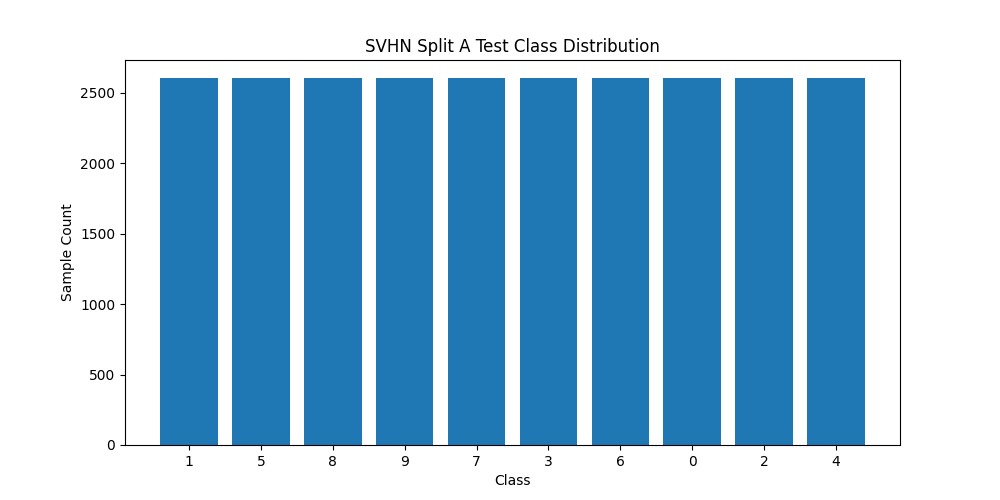
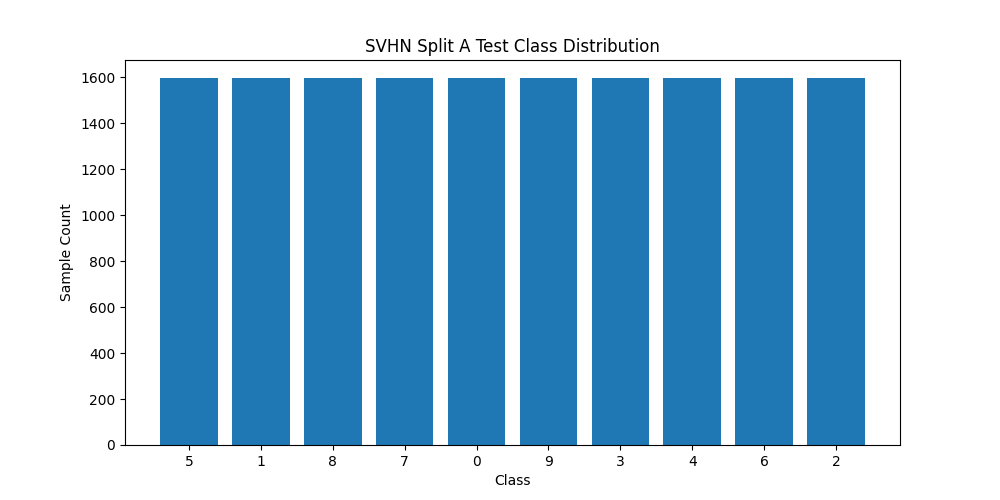
update balancing code for svhn

diff --git a/utils/datasets.py b/utils/datasets.py
@@ -7,7 +7,7 @@ from torch.utils.data import Dataset, DataLoader
 import matplotlib.pyplot as plt
 import pandas as pd
 import collections
-
+import copy
 def plot_class_distribution(dataset, dataset_name):
     class_counts = collections.Counter(dataset.labels)
     class_labels = [str(i) for i in range(10)]
@@ -25,68 +25,53 @@ def plot_class_distribution(dataset, dataset_name):
     plt.title(f'{dataset_name} Class Distribution')
     plt.savefig(f'{dataset_name}_class_distribution.png')
 
-SEED = 42
-np.random.seed(SEED)
-torch.manual_seed(SEED)
 
-class BalancedDataset(Dataset):
-    def __init__(self, dataset, target_count=None):
-        """
-        :param dataset: Original dataset
-        :param target_count: Target number of samples per class (default is the mean number of samples across all classes)
-        """
-        super().__init__()
 
-        # Ensure compatibility with different versions of torchvision
-        if hasattr(dataset, 'labels'):
-            labels = np.array(dataset.labels)
-            self.label_attr = 'labels'
-        elif hasattr(dataset, 'targets'):
-            labels = np.array(dataset.targets)
-            self.label_attr = 'targets'
-        else:
-            raise AttributeError("Dataset does not have 'labels' or 'targets' attribute.")
+def balance_svhn_dataset(svhn_dataset, seed=42):
+    """
+    Balances an SVHN dataset created via torchvision.datasets.SVHN by removing extra samples 
+    so that each class retains only as many samples as the class with the fewest samples.
+    The returned dataset remains of the same type as the original SVHN dataset, preserving its 
+    methods and properties.
 
-        self.dataset = dataset
-        self.original_indices = np.arange(len(dataset))
+    Args:
+        svhn_dataset: An instance of the SVHN dataset (e.g., created by SVHN(root=..., split='train', ...)).
+        seed: Random seed (default is 42) to ensure reproducibility of the random sampling.
 
-        # Compute class sample counts
-        class_counts = np.bincount(labels)
-        num_classes = len(class_counts)
+    Returns:
+        A balanced SVHN dataset instance.
+    """
+    # Create a deep copy of the dataset to avoid modifying the original dataset.
+    dataset = copy.deepcopy(svhn_dataset)
 
-        # Compute target number of samples per class (default: mean sample count)
-        if target_count is None:
-            target_count = int(np.mean(class_counts))
+    # Convert the labels to a NumPy array for easier processing.
+    labels = np.array(dataset.labels)
+    
+    # Determine the unique labels and the corresponding counts for each class.
+    unique_labels, counts = np.unique(labels, return_counts=True)
+    # Find the minimum count among all classes.
+    min_count = counts.min()
 
-        # Generate balanced indices
-        balanced_indices = []
-        for cls in range(num_classes):
-            cls_indices = np.where(labels == cls)[0]
-
-            # Oversample or undersample
-            if len(cls_indices) < target_count:
-                sampled_indices = np.random.choice(cls_indices, target_count, replace=True)
-            else:
-                sampled_indices = np.random.choice(cls_indices, target_count, replace=False)
-
-            balanced_indices.extend(sampled_indices)
-
-        # Shuffle indices
-        np.random.shuffle(balanced_indices)
-
-        # Store balanced dataset indices
-        self.indices = balanced_indices
-        self.labels = labels[self.indices]  # Balanced labels
-        if hasattr(dataset, 'data'):
-            self.data = dataset.data[self.indices]  # Filter dataset data if it exists
-
-    def __len__(self):
-        return len(self.indices)
-
-    def __getitem__(self, idx):
-        original_idx = self.indices[idx]  # Get original dataset index
-        return self.dataset[original_idx]  # Return sample from the original dataset
-
+    # For each class, randomly select min_count indices.
+    balanced_indices = []
+    rng = np.random.RandomState(seed)
+    for label in unique_labels:
+        # Get indices for the current class.
+        cls_indices = np.where(labels == label)[0]
+        # Randomly select min_count indices without replacement.
+        selected = rng.choice(cls_indices, size=min_count, replace=False)
+        balanced_indices.extend(selected)
+    
+    balanced_indices = np.array(balanced_indices)
+    # Optionally, shuffle the indices to mix samples from different classes.
+    rng.shuffle(balanced_indices)
+    
+    # Update the dataset with the balanced subset of data and labels.
+    dataset.data = dataset.data[balanced_indices]
+    dataset.labels = np.array(dataset.labels)[balanced_indices]
+    
+    return dataset
+    
 
 def get_cifar100(train=True, bs=512): #8
     path   = os.path.dirname(os.path.abspath(__file__))
@@ -238,7 +223,7 @@ def get_svhn_split_a(train=True, bs=512):
     val_transform = transforms.Compose([transforms.ToTensor(), normalize])
     if train:
         dataset = get_dataset(root=datadir, split='train', download=True, transform=tr_transform)
-        dataset = BalancedDataset(dataset)
+        dataset = balance_svhn_dataset(dataset)
         plot_class_distribution(dataset, "SVHN Split A Train")
         np_target = np.array(dataset.labels)
         dataset.labels = np_target[np_target < split_label]
@@ -246,7 +231,7 @@ def get_svhn_split_a(train=True, bs=512):
         dataset.data = dataset.data[np_target < split_label]
     else:
         dataset = get_dataset(root=datadir, split='test', download=True, transform=val_transform)
-        dataset = BalancedDataset(dataset)
+        dataset = balance_svhn_dataset(dataset)
         plot_class_distribution(dataset, "SVHN Split A Test")
         np_target = np.array(dataset.labels)
         dataset.labels = np_target[np_target < split_label]
@@ -268,7 +253,7 @@ def get_svhn_split_b(train=True, bs=512):
     val_transform = transforms.Compose([transforms.ToTensor(), normalize])
     if train:
         dataset = get_dataset(root=datadir, split='train', download=True, transform=tr_transform)
-        dataset = BalancedDataset(dataset)
+        dataset = balance_svhn_dataset(dataset)
         plot_class_distribution(dataset, "SVHN Split B Train")
         np_target = np.array(dataset.labels)
         dataset.labels = np_target[np_target > split_label]
@@ -276,7 +261,7 @@ def get_svhn_split_b(train=True, bs=512):
         dataset.data = dataset.data[np_target > split_label]
     else:
         dataset = get_dataset(root=datadir, split='test', download=True, transform=val_transform)
-        dataset = BalancedDataset(dataset)
+        dataset = balance_svhn_dataset(dataset)
         plot_class_distribution(dataset, "SVHN Split B Test")
         np_target = np.array(dataset.labels)
         dataset.labels = np_target[np_target > split_label]

diff --git a/resnet18_svhn_weight_merging_split.py b/resnet18_svhn_weight_merging_split.py
@@ -74,12 +74,12 @@ def main():
         }
     )
 
-    with torch.no_grad():
-        model_b.linear.weight[:5] = 0.0
-        model_b.linear.bias[:5] = 0.0
+    # with torch.no_grad():
+    #     model_b.linear.weight[:5] = 0.0
+    #     model_b.linear.bias[:5] = 0.0
 
-        model_a.linear.weight[5:] = 0.0
-        model_a.linear.bias[5:] = 0.0
+    #     model_a.linear.weight[5:] = 0.0
+    #     model_a.linear.bias[5:] = 0.0
 
     model_a.cuda()
     model_b.cuda()
